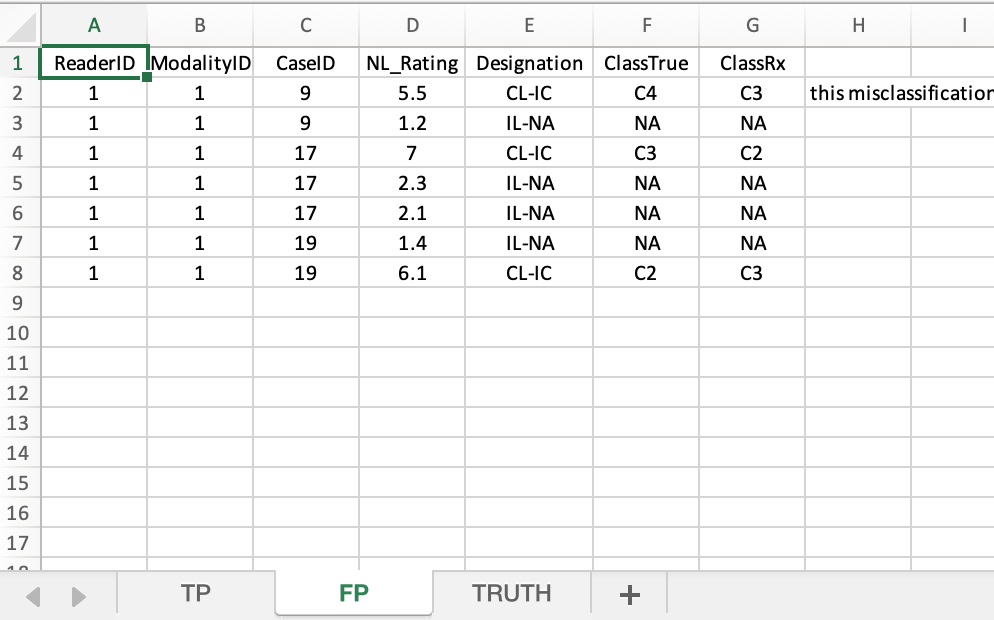
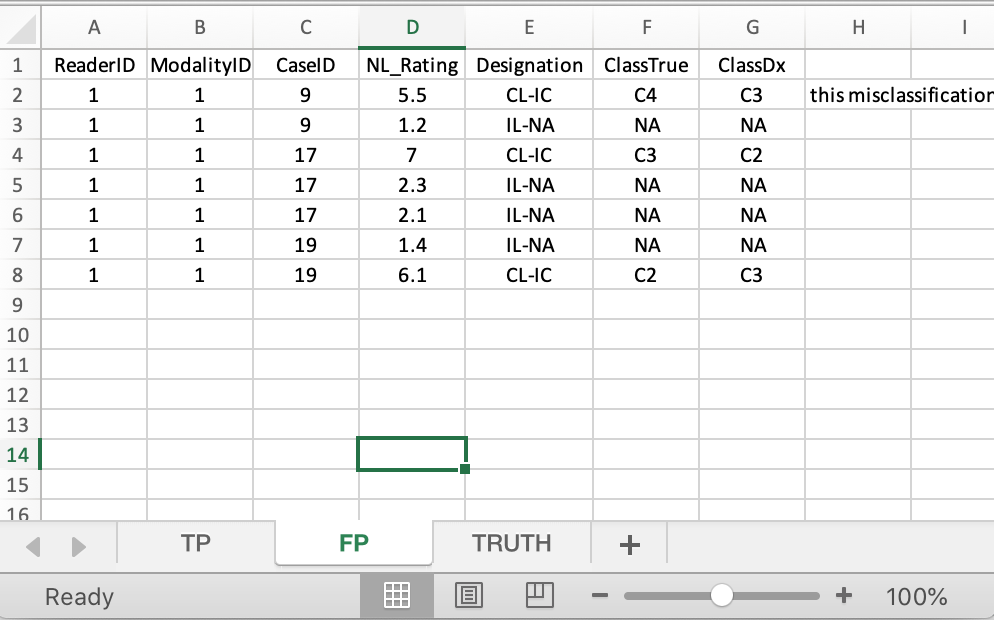
update to FP png sheets in classification chapter
* ClassRx to ClassDx
* Other minor edits

diff --git a/docs/classification-tasks.html b/docs/classification-tasks.html
@@ -699,7 +699,6 @@ code span.wa { color: #60a0b0; font-weight: bold; font-style: italic; } /* Warni
 <li class="chapter" data-level="22.4.2" data-path="classification-tasks.html"><a href="classification-tasks.html#classification-tasks-example1-tp"><i class="fa fa-check"></i><b>22.4.2</b> <code>TP</code> sheet</a></li>
 <li class="chapter" data-level="22.4.3" data-path="classification-tasks.html"><a href="classification-tasks.html#classification-tasks-example1-fp"><i class="fa fa-check"></i><b>22.4.3</b> <code>FP</code> sheet</a></li>
 <li class="chapter" data-level="22.4.4" data-path="classification-tasks.html"><a href="classification-tasks.html#the-two-ratings-arrays"><i class="fa fa-check"></i><b>22.4.4</b> The two ratings arrays</a></li>
-<li class="chapter" data-level="22.4.5" data-path="classification-tasks.html"><a href="classification-tasks.html#the-fom-is-shown-next"><i class="fa fa-check"></i><b>22.4.5</b> The FOM is shown next:</a></li>
 </ul></li>
 <li class="chapter" data-level="22.5" data-path="classification-tasks.html"><a href="classification-tasks.html#classification-tasks-example2"><i class="fa fa-check"></i><b>22.5</b> Second example, File2.xlsx</a></li>
 <li class="chapter" data-level="22.6" data-path="classification-tasks.html"><a href="classification-tasks.html#classification-tasks-example3"><i class="fa fa-check"></i><b>22.6</b> Third example, File3.xlsx</a></li>
@@ -751,7 +750,7 @@ code span.wa { color: #60a0b0; font-weight: bold; font-style: italic; } /* Warni
 <div id="classification-tasks-basic-idea" class="section level2" number="22.3">
 <h2><span class="header-section-number">B.3</span> History and basic idea</h2>
 <p>This project started with a request to extend localization analysis software <code>RJafroc</code> to localization-classification tasks. Since this is new research the required data format is not in the <code>RJafroc</code> documentation. Some familiarity with basic localization task analysis is assumed.</p>
-<p>The basic idea is that spatial localization is a special case of localization-with-classification.</p>
+<p>The basic idea is that spatial localization is a special case of localization-with-classification. <strong>CL-CC</strong> marks are put in TP sheet and other are put in FP sheet.</p>
 </div>
 <div id="classification-tasks-example1" class="section level2" number="22.4">
 <h2><span class="header-section-number">B.4</span> First example, File1.xlsx</h2>
@@ -808,7 +807,11 @@ FIGURE B.2: TP worksheet for File1.xlsx
 </div>
 <div id="classification-tasks-example1-fp" class="section level3" number="22.4.3">
 <h3><span class="header-section-number">B.4.3</span> <code>FP</code> sheet</h3>
-<p>This holds <strong>IL-NA</strong> and <strong>CL-IC</strong> marks.</p>
+<ul>
+<li>This holds <strong>IL-NA</strong> and <strong>CL-IC</strong> marks.</li>
+<li><code>ClassTrue</code> is the true class of the lesion.</li>
+<li><code>ClassDx</code> is the indicated or diagnosed class of the lesion.</li>
+</ul>
 <div class="figure" style="text-align: center"><span id="fig:File1FP"></span>
 <img src="images/classification/File1FP.png" alt="FP worksheet for File1.xlsx" width="50%" height="20%" />
 <p class="caption">
@@ -818,7 +821,7 @@ FIGURE B.3: FP worksheet for File1.xlsx
 <div id="classification-tasks-example1-fp-case9" class="section level4" number="22.4.3.1">
 <h4><span class="header-section-number">B.4.3.1</span> Case 9</h4>
 <ul>
-<li><strong>CL-IC</strong> mark rated 5.5, <code>C2</code> classified as <code>C3</code>. This misclassification is especially bad as <code>C3</code> does not exist on this case.</li>
+<li><strong>CL-IC</strong> mark rated 5.5, <code>C2</code> classified as <code>C3</code>.</li>
 <li><strong>IL-NA</strong> mark rated 1.2.</li>
 </ul>
 </div>
@@ -852,9 +855,7 @@ FIGURE B.3: FP worksheet for File1.xlsx
 <span id="cb1-10"><a href="classification-tasks.html#cb1-10" aria-hidden="true" tabindex="-1"></a><span class="co">#&gt; [1,]  5.0 -Inf -Inf -Inf</span></span>
 <span id="cb1-11"><a href="classification-tasks.html#cb1-11" aria-hidden="true" tabindex="-1"></a><span class="co">#&gt; [2,]  6.1  7.1 -Inf  2.3</span></span>
 <span id="cb1-12"><a href="classification-tasks.html#cb1-12" aria-hidden="true" tabindex="-1"></a><span class="co">#&gt; [3,]  5.7 -Inf -Inf -Inf</span></span></code></pre></div>
-</div>
-<div id="the-fom-is-shown-next" class="section level3" number="22.4.5">
-<h3><span class="header-section-number">B.4.5</span> The FOM is shown next:</h3>
+<p>The FOM is shown next:</p>
 <div class="sourceCode" id="cb2"><pre class="sourceCode r"><code class="sourceCode r"><span id="cb2-1"><a href="classification-tasks.html#cb2-1" aria-hidden="true" tabindex="-1"></a><span class="fu">print</span>(<span class="fu">UtilFigureOfMerit</span>(x, <span class="at">FOM =</span> <span class="st">&quot;wAFROC1&quot;</span>))</span>
 <span id="cb2-2"><a href="classification-tasks.html#cb2-2" aria-hidden="true" tabindex="-1"></a><span class="co">#&gt;           rdr1</span></span>
 <span id="cb2-3"><a href="classification-tasks.html#cb2-3" aria-hidden="true" tabindex="-1"></a><span class="co">#&gt; trt1 0.2361111</span></span></code></pre></div>
@@ -911,20 +912,20 @@ FIGURE B.6: Truth worksheet for File4.xlsx
 FIGURE B.7: TP worksheet for File4.xlsx
 </p>
 </div>
-<ul>
-<li>Note that the three FOMS are identical.</li>
-</ul>
-<div class="sourceCode" id="cb5"><pre class="sourceCode r"><code class="sourceCode r"><span id="cb5-1"><a href="classification-tasks.html#cb5-1" aria-hidden="true" tabindex="-1"></a>fileName <span class="ot">&lt;-</span> <span class="st">&quot;R/CH83-ClassificationTask/File4.xlsx&quot;</span></span>
-<span id="cb5-2"><a href="classification-tasks.html#cb5-2" aria-hidden="true" tabindex="-1"></a>x <span class="ot">&lt;-</span> <span class="fu">DfReadDataFile</span>(<span class="at">fileName =</span> fileName)</span>
-<span id="cb5-3"><a href="classification-tasks.html#cb5-3" aria-hidden="true" tabindex="-1"></a><span class="fu">print</span>(<span class="fu">UtilFigureOfMerit</span>(x, <span class="at">FOM =</span> <span class="st">&quot;wAFROC1&quot;</span>))</span>
-<span id="cb5-4"><a href="classification-tasks.html#cb5-4" aria-hidden="true" tabindex="-1"></a><span class="co">#&gt;           rdr1      rdr2      rdr3</span></span>
-<span id="cb5-5"><a href="classification-tasks.html#cb5-5" aria-hidden="true" tabindex="-1"></a><span class="co">#&gt; trt1 0.5277778 0.5277778 0.5277778</span></span></code></pre></div>
 <div class="figure" style="text-align: center"><span id="fig:File4FP"></span>
 <img src="images/classification/File4FP.png" alt="FP worksheet for File4.xlsx" width="50%" height="20%" />
 <p class="caption">
 FIGURE B.8: FP worksheet for File4.xlsx
 </p>
 </div>
+<ul>
+<li>Shown next are the three FOMs. Note that they are identical.</li>
+</ul>
+<div class="sourceCode" id="cb5"><pre class="sourceCode r"><code class="sourceCode r"><span id="cb5-1"><a href="classification-tasks.html#cb5-1" aria-hidden="true" tabindex="-1"></a>fileName <span class="ot">&lt;-</span> <span class="st">&quot;R/CH83-ClassificationTask/File4.xlsx&quot;</span></span>
+<span id="cb5-2"><a href="classification-tasks.html#cb5-2" aria-hidden="true" tabindex="-1"></a>x <span class="ot">&lt;-</span> <span class="fu">DfReadDataFile</span>(<span class="at">fileName =</span> fileName)</span>
+<span id="cb5-3"><a href="classification-tasks.html#cb5-3" aria-hidden="true" tabindex="-1"></a><span class="fu">print</span>(<span class="fu">UtilFigureOfMerit</span>(x, <span class="at">FOM =</span> <span class="st">&quot;wAFROC1&quot;</span>))</span>
+<span id="cb5-4"><a href="classification-tasks.html#cb5-4" aria-hidden="true" tabindex="-1"></a><span class="co">#&gt;           rdr1      rdr2      rdr3</span></span>
+<span id="cb5-5"><a href="classification-tasks.html#cb5-5" aria-hidden="true" tabindex="-1"></a><span class="co">#&gt; trt1 0.5277778 0.5277778 0.5277778</span></span></code></pre></div>
 </div>
 <div id="classification-tasks-example5" class="section level2" number="22.8">
 <h2><span class="header-section-number">B.8</span> Fifth example, File5.xlsx</h2>

diff --git a/docs/83-classification-task.md b/docs/83-classification-task.md
@@ -22,7 +22,7 @@ TBA: This project is a works-in-progress.
 
 This project started with a request to extend localization analysis software `RJafroc` to localization-classification tasks. Since this is new research the required data format is not in the `RJafroc` documentation. Some familiarity with basic localization task analysis is assumed.
 
-The basic idea is that spatial localization is a special case of localization-with-classification.
+The basic idea is that spatial localization is a special case of localization-with-classification. **CL-CC** marks are put in TP sheet and other are put in FP sheet.
 
 ## First example, File1.xlsx {#classification-tasks-example1}
 
@@ -69,7 +69,9 @@ This holds CL-CC marks.
 
 ### `FP` sheet {#classification-tasks-example1-fp}
 
-This holds **IL-NA** and **CL-IC** marks.
+-   This holds **IL-NA** and **CL-IC** marks.
+-   `ClassTrue` is the true class of the lesion.
+-   `ClassDx` is the indicated or diagnosed class of the lesion.
 
 <div class="figure" style="text-align: center">
 <img src="images/classification/File1FP.png" alt="FP worksheet for File1.xlsx" width="50%" height="20%" />
@@ -78,7 +80,7 @@ This holds **IL-NA** and **CL-IC** marks.
 
 #### Case 9 {#classification-tasks-example1-fp-case9}
 
--   **CL-IC** mark rated 5.5, `C2` classified as `C3`. This misclassification is especially bad as `C3` does not exist on this case.
+-   **CL-IC** mark rated 5.5, `C2` classified as `C3`.
 -   **IL-NA** mark rated 1.2.
 
 #### Case 17 {#classification-tasks-example1-fp-case17}
@@ -110,7 +112,7 @@ x$ratings$LL[1,1,,]
 #> [3,]  5.7 -Inf -Inf -Inf
 ```
 
-### The FOM is shown next:
+The FOM is shown next:
 
 
 ```r
@@ -174,7 +176,12 @@ So far we have dealt with one modality and one reader.
 <p class="caption">(\#fig:File4TP)TP worksheet for File4.xlsx</p>
 </div>
 
--   Note that the three FOMS are identical.
+<div class="figure" style="text-align: center">
+<img src="images/classification/File4FP.png" alt="FP worksheet for File4.xlsx" width="50%" height="20%" />
+<p class="caption">(\#fig:File4FP)FP worksheet for File4.xlsx</p>
+</div>
+
+-   Shown next are the three FOMs. Note that they are identical.
 
 
 ```r
@@ -184,11 +191,6 @@ print(UtilFigureOfMerit(x, FOM = "wAFROC1"))
 #>           rdr1      rdr2      rdr3
 #> trt1 0.5277778 0.5277778 0.5277778
 ```
-
-<div class="figure" style="text-align: center">
-<img src="images/classification/File4FP.png" alt="FP worksheet for File4.xlsx" width="50%" height="20%" />
-<p class="caption">(\#fig:File4FP)FP worksheet for File4.xlsx</p>
-</div>
 
 ## Fifth example, File5.xlsx {#classification-tasks-example5}
 
